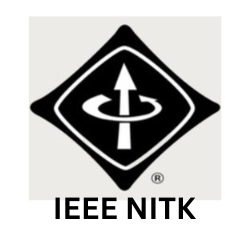
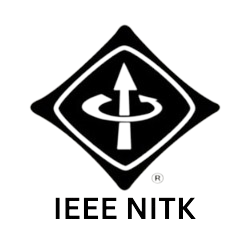
changed background color

diff --git a/public/styles.css b/public/styles.css
@@ -42,7 +42,7 @@ canvas{
 
 #main {
     font-family: personal-font, serif;
-    background-color: #ECEBE7;
+    background-color: #ffffff;
     /* color: #4B4A48; */
 }
 
@@ -78,7 +78,7 @@ canvas{
 }
 
 .Home-onHoverOut {
-    color:#ECEBE7;
+    color:#ffffff;
 }
 
 .home-div {
@@ -114,7 +114,7 @@ canvas{
 }
 
 .gradient-text{
-    background-image: linear-gradient(45deg, #4d4d4d, #ECEBE7);
+    background-image: linear-gradient(45deg, #4d4d4d, #ffffff);
     background-size: 100%;
     -webkit-background-clip: text;
     -webkit-text-fill-color: transparent;
@@ -146,7 +146,7 @@ canvas{
     border-radius:100%;
     margin-bottom: 18px;
     padding: 10px;
-    border:10px solid #ECEBE7;
+    border:10px solid #ffffff;
 
     animation-name:rotate;
     animation-duration: 5s;
@@ -161,7 +161,7 @@ canvas{
     width:80px;
     height:30px;
     border-radius:100%;
-    border:5px solid #ECEBE7;
+    border:5px solid #ffffff;
   }
 
   .nucleo , .react-logo , .react-logo:before , .react-logo:after {
@@ -174,7 +174,7 @@ canvas{
     width:10px;
     height:10px;
     border-radius:100%;
-    background:#ECEBE7;
+    background:#ffffff;
   }
 
   .react-logo:before , .react-logo:after{
@@ -306,7 +306,7 @@ canvas{
 }
 
 .exp-card-super{
-    background: #ECEBE7;
+    background: #ffffff;
 }
 
 .exp-main{
@@ -314,10 +314,11 @@ canvas{
     display: flex;
     justify-content: center;
     perspective: 100000px;
+
 }
 
 .exp-card-main{
-    background: #ECEBE7;
+    background: #ffffff;
     position: relative;
     transition: transform 1s;
     transform-style: preserve-3d;
@@ -367,6 +368,8 @@ canvas{
     }
     .project-card{
         width: 70vw;
+            box-shadow: 0 4px 8px 0 rgba(0, 0, 0, 0.2), 0 6px 20px 0 rgba(0, 0, 0, 0.19);
+
     }
     .exp-card-div{
         width: 100%;
@@ -406,6 +409,7 @@ canvas{
 @media screen and (min-width:768px) and (max-width:1240px) {
     .project-card-super{
         display: grid;
+        
         grid-template-columns: repeat(1, 6fr);
     }
     .project-card{

diff --git a/src/components/SkillsAndProjects.jsx b/src/components/SkillsAndProjects.jsx
@@ -469,10 +469,10 @@ function SkillsAndProjects() {
                 </span>
               </div>
             </button>
-            <button className="btn btn-outline-dark btn-lg rounded-0 some-div active block mx-2 bg-dark text-white  items-center justify-center" onClick={() => handleFilterChange("machine learning")}>
+            <button className="btn btn-outline-dark btn-lg rounded-0 some-div active block mx-2 bg-dark text-white  items-center justify-center pl-6" onClick={() => handleFilterChange("machine learning")}>
               <img id='ml' src={machinelearninglogo} alt="Machine-Learning" />
             </button>
-            <button className="btn btn-outline-dark btn-lg rounded-0 some-div active block mx-2 bg-dark text-white items-center justify-center" onClick={() => handleFilterChange("blockchain")}>
+            <button className="btn btn-outline-dark btn-lg rounded-0 some-div active block mx-2 bg-dark text-white items-center justify-center pl-10 "  onClick={() => handleFilterChange("blockchain")}>
               <img id='blockchain' src={blockchainlogo} alt="Blockchain" />
             </button>
             <button className="btn btn-outline-dark btn-lg rounded-right some-div active flex items-center justify-center" onClick={() => handleFilterChange("miscellaneous")}>
